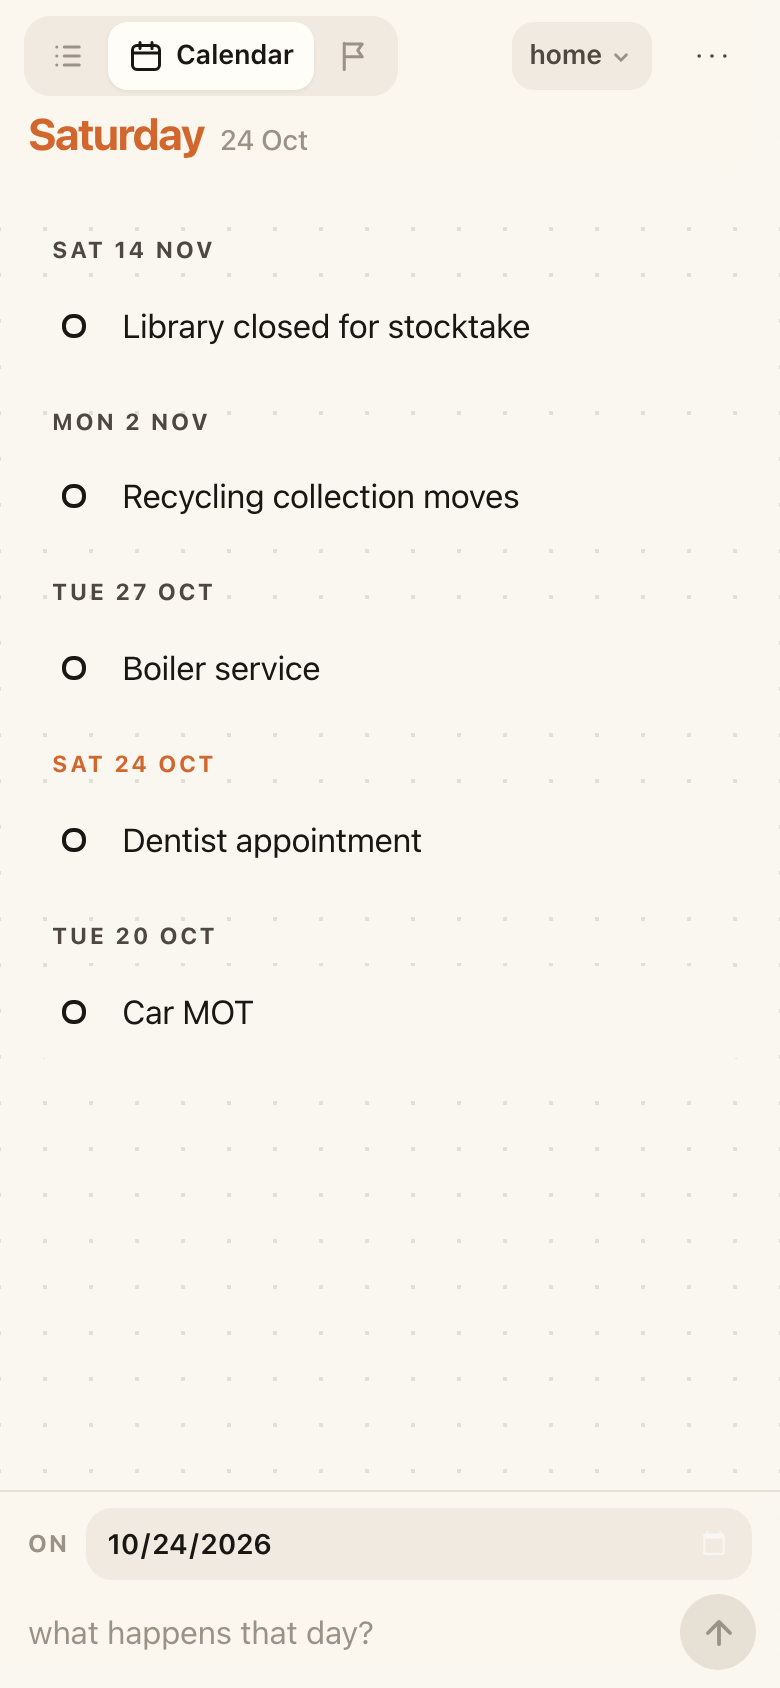
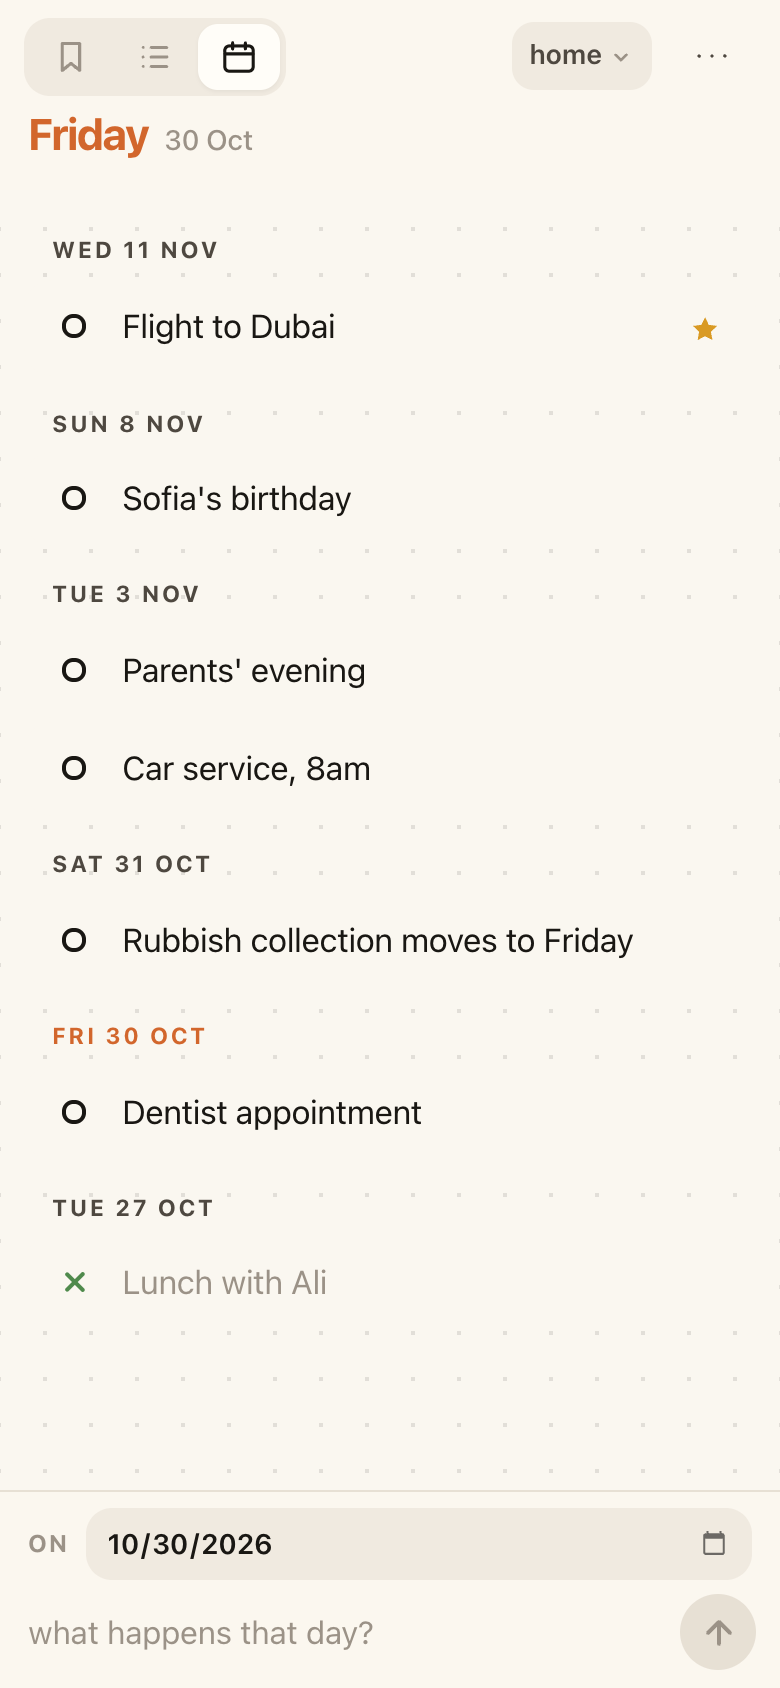
updated screenshots

diff --git a/CLAUDE.md b/CLAUDE.md
@@ -1,0 +1,107 @@
+# CLAUDE.md
+
+This file provides guidance to Claude Code (claude.ai/code) when working with code in this repository.
+
+## What this repo is
+
+`web/` is the whole app — a PWA bullet journal in four source files (`index.html`,
+`styles.css`, `app.js`, `sw.js`) plus the manifest and icons. **No build step, no
+dependencies, no framework, no test runner.** Adding any of those is a design decision
+to raise with the user, not a convenience to reach for.
+
+Read `web/README.md` before changing behavior: it is the maintained description of the
+model, the gestures and the stored JSON shape, and it is user-facing. Keep it true when
+behavior changes.
+
+Ignore as dead weight: `bujo.db` and `__pycache__/` are leftovers from a retired Python
+CLI that no longer exists in the tree. `web/SPEC-dates.md` is a historical design doc
+for that earlier, *dated* version of the app — its line references are stale and its
+proposals were superseded; do not read it as current intent.
+
+## Running and verifying
+
+```sh
+cd web && ./serve.sh        # prints the LAN URL; ./serve.sh 9000 for another port
+```
+
+`serve.sh` sends no-store headers deliberately — plain `python3 -m http.server` lets iOS
+Safari heuristically cache `app.js`/`styles.css`, so a refresh silently shows an old
+build.
+
+There is no test framework, and the logic is almost all DOM-coupled (render, gestures,
+sheets), so unit tests would cover very little. Verify by driving the real page:
+
+- serve `web/`, launch `/Applications/Google Chrome.app/Contents/MacOS/Google Chrome`
+  with `--headless=new --remote-debugging-port=N --user-data-dir=<scratch>`, and drive it
+  over the CDP WebSocket from a node script (node has global `WebSocket`/`fetch`, so
+  nothing to install).
+- Top-level `const`s in `app.js` (`db`, `S`, `goTo`, `pagesIn`, …) are reachable from
+  `Runtime.evaluate` in the same realm, so assertions can call the app's own functions.
+- **Handle `Page.javascriptDialogOpening`.** Several paths call `prompt()`/`confirm()`;
+  an unanswered native dialog blocks the page and every later `Runtime.evaluate` hangs
+  until the browser is killed.
+- Screenshots: `Emulation.setDeviceMetricsOverride` at 390x844 @2x, and set
+  `Emulation.setEmulatedMedia` `prefers-color-scheme` explicitly — headless Chrome
+  defaults to **dark**, so "light" shots come out dark otherwise. Call `hideToast()`
+  before capturing or a transient toast lands in the frame.
+- Clear `localStorage` and reload between runs.
+
+Syntax check: `node --check web/app.js`.
+
+## Architecture
+
+**One array, three filters.** The whole journal is a flat `entries` array in
+`localStorage` under `bujo.v2`. What is on screen is decided by, in order: the notebook
+(`db.book`), then the *type* of an entry (`task` → Journal, `event` → Calendar), then —
+on the Journal only — the page of that notebook (`db.page`). Nothing else filters
+anything, and **no filter ever rewrites an entry**. That is why a notebook can be
+archived without touching what it holds.
+
+The third page, the Index, is the exception that proves it: it holds no entries at all,
+listing `db.pages` for the current notebook so you can turn to one. It is also the only
+place a page is made, renamed or deleted — its composer names a new page instead of
+writing a line — so page handling lives in one view rather than being spread across a
+header strip and a sheet.
+
+**"Absent means the default."** `book` is absent for the first notebook, `page` for its
+notebook's default page, `due`/`backlog` when they do not apply. This is the migration
+strategy, not an optimisation: a journal written before notebooks or pages existed gains
+a record and not one entry is rewritten. Writing an explicit default (`putPage` guards
+this) breaks the invariant that makes old files load untouched.
+
+**The invariant funnel.** `load()` → `normalise()` → `withBooks()` / `withPages()` /
+`adopt()` per entry / `linkPages()`. Import runs the same path, so the two can never
+drift. `withBooks`/`withPages` guarantee what every reader assumes: at least one
+notebook, at least one page per notebook, and `db.book`/`db.page` naming real ones.
+`adopt()` spreads `...raw` first, so **unknown keys survive** — a file from a newer build
+round-trips through an older one without losing fields.
+
+**One way to change state.** `mutate(label, fn)` snapshots for Undo, runs `fn`, saves and
+re-renders; `label` makes it undoable, `null` makes it silent. `render()` is a full
+redraw from `db` + `S`. There is no partial update and no component state. `S` is
+session-only view state (fold flags, ids to animate) and is deliberately never
+persisted — a filter or a fold you did not set this session is a trap.
+
+**Build stamps.** `__BUILD_ID__` (index.html, sw.js) and `__BUJO_VERSION__` (app.js) are
+literal placeholders when run locally and are `sed`-replaced in CI
+(`.github/workflows/pages.yml`). Do not "fix" them. The version shows in the menu footer
+— the fastest way to tell whether a phone is running the build you just deployed or a
+cached one. Pushes to `main` touching `web/` deploy to GitHub Pages automatically.
+
+## Conventions
+
+- **Comments carry the design reasoning**, in prose, in a consistent voice: they say
+  *why* a thing is the way it is, not what the line does. Removing or changing a feature
+  means rewriting the comments around it, not just the code — a stale comment here is a
+  worse defect than a stale line. Match the density and voice of the surrounding file.
+- **Dates read `dd MMM`** everywhere ("Sat 21 Nov"), never "Today"/"Tomorrow"/
+  "Yesterday", so a line means the same thing whenever it is read back.
+- **Portrait, one thumb, phone widths.** The layout is portrait-locked by design. The
+  notebook's 5-character name cap is the feature, not a limit to work around: it shares
+  the header row with three tabs and a menu, and a tab that gets truncated is not a tab.
+  A page name is uncapped — it is read on rows of its own, which clamp it with an
+  ellipsis instead.
+- Every type size is `rem` so the text-size setting scales the whole app at once; every
+  colour is a token on `:root` redefined in one dark-mode block.
+- The user commits and deploys themselves — leave changes in the working tree unless
+  asked otherwise.

diff --git a/README.md b/README.md
@@ -4,35 +4,31 @@ A touch-first bullet journal built for a thumb, live at
 **https://mohdejaz.github.io/bujo/**. Add it to your home screen and it works
 offline.
 
-| Journal | Calendar | Goals | A line, opened |
+| Journal | Calendar | Index | A line, opened |
 | :-: | :-: | :-: | :-: |
-| ![The Journal: today's event at the head, then tasks by deadline, with the Backlog and Done folded at the foot](docs/screens/journal.png) | ![The Calendar: events under the day they fall on, reading back from the furthest](docs/screens/calendar.png) | ![Goals: each with its deadline and how many of its steps are done](docs/screens/goals.png) | ![A task's sheet: its words, its notes, its tag, the day it is due by, and everything you can do to it](docs/screens/entry.png) |
+| ![The Journal: the page it is reading named beside the date, today's event at the head, then tasks by deadline, with the Backlog and Done folded at the foot](docs/screens/journal.png) | ![The Calendar: events under the day they fall on, reading back from the furthest](docs/screens/calendar.png) | ![The Index: every page of the notebook with how many lines are on it, and a field to name a new one](docs/screens/index.png) | ![A task's sheet: its words, its notes, the day it is due by, and everything you can do to it](docs/screens/entry.png) |
 
-Four pages. **Tasks** share one endless *Journal*. A task needs no date —
+Three pages. **Tasks** share one endless *Journal*. A task needs no date —
 most are just things to do, and those read newest first — but it can carry a
 day it is wanted **by**, and then it sorts by that: anything overdue at the
 top, then the soonest day, with the undated work below. **Events have a date**
 and live on the *Calendar*, grouped by day — and whatever falls on today is
 printed at the head of the Journal, so the page you open shows what is on as
-well as what is outstanding. **Goals** have a deadline too, and count the
-tasks that get them done; each step is an ordinary task, so it sits on the
-Journal with everything else and is completed there. **Tags** is the one page
-that reads across the other three: pick a tag and everything carrying it is
-there together, tasks, events and goals alike. Switching between the four is
-the only navigation there is.
+well as what is outstanding. The **Index** is the notebook's own contents:
+every page of it, with how many lines are on each, and a tap to turn to one.
+Switching between the three is the only navigation there is.
 
 The row prints only its words — and its deadline, when it has one. The day a
 line was written is in its sheet, a tap away, rather than on the page.
 
 Tap a bullet to complete, swipe right to complete, swipe left to set a task
-aside in the backlog. Every line carries its own `#tag` — the Tags page reads a
-group whole — and long-form notes —
-there is no free-standing note, because what you want to remember belongs with
-the thing it is about — and several notebooks can sit side by side, each
-with its own pages under the date. The
-journal lives in `localStorage` on the device and is exported and imported as
-JSON from the ⋯ menu — that export is the only backup, so take one now and
-then.
+aside in the backlog. Every line carries its own long-form notes — there is no
+free-standing note, because what you want to remember belongs with the thing it
+is about — and several notebooks can sit side by side, each with its own pages
+listed on the Index. The Journal names the page it is reading beside the date,
+so the lines under it are never anonymous. The journal lives in `localStorage` on the device and is
+exported and imported as JSON from the ⋯ menu — that export is the only backup,
+so take one now and then.
 
 A journal written in the previous, dated version of this app is migrated once,
 automatically, the first time this one opens; the old data is left on the
@@ -58,7 +54,7 @@ you get the app but not the installable layer. Pushes to `main` that touch
 `web/` deploy to GitHub Pages automatically.
 
 See [`web/README.md`](web/README.md) for the full guide: gestures, due dates,
-the backlog, goals, tags, notebooks and their pages, search and the data
+the backlog, notebooks and their pages, the Index, search and the data
 format.
 
 ## License
